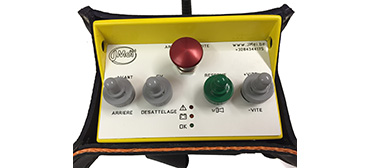
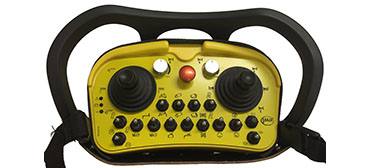
New Radio du mois

diff --git a/html/fr/index.default.php b/html/fr/index.default.php
@@ -92,7 +92,7 @@
                 </div>
                 <div class="span4">
 					<h2 class="text-center">Nos réalisations</h2>
-                    <a href="<?php echo Site::relativeUrl('realisations');?>" style="text-align: left"><img src="../img/home/month-radio.jpg?v=16" alt="Radiocommande Industrielle de sécurité"></a>
+                    <a href="<?php echo Site::relativeUrl('realisations');?>" style="text-align: left"><img src="../img/home/month-radio.jpg?v=17" alt="Radiocommande Industrielle de sécurité"></a>
 
                </div>
                 <div class="span4">

diff --git a/html/fr/index.fourmies.php b/html/fr/index.fourmies.php
@@ -92,7 +92,7 @@
                 </div>
                 <div class="span4">
 					<h2 class="text-center">Nos réalisations</h2>
-                    <a href="<?php echo Site::relativeUrl('realisations');?>" style="text-align: left"><img src="../img/home/month-radio.jpg?v=16" alt="Radiocommande Industrielle de sécurité"></a>
+                    <a href="<?php echo Site::relativeUrl('realisations');?>" style="text-align: left"><img src="../img/home/month-radio.jpg?v=17" alt="Radiocommande Industrielle de sécurité"></a>
 
                </div>
                 <div class="span4">
